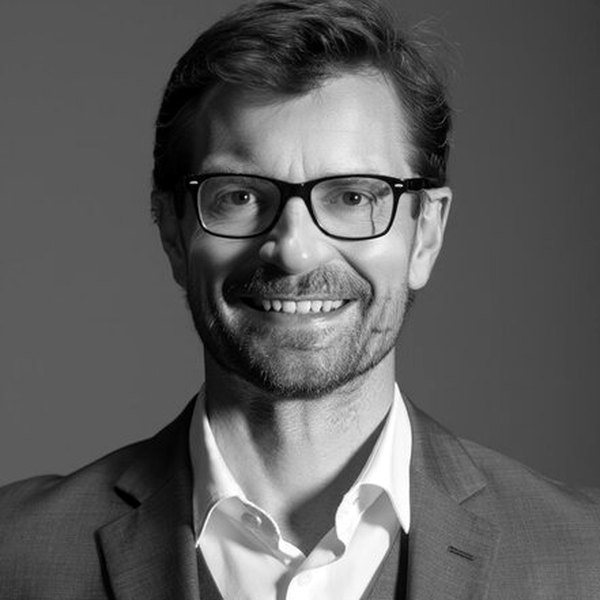
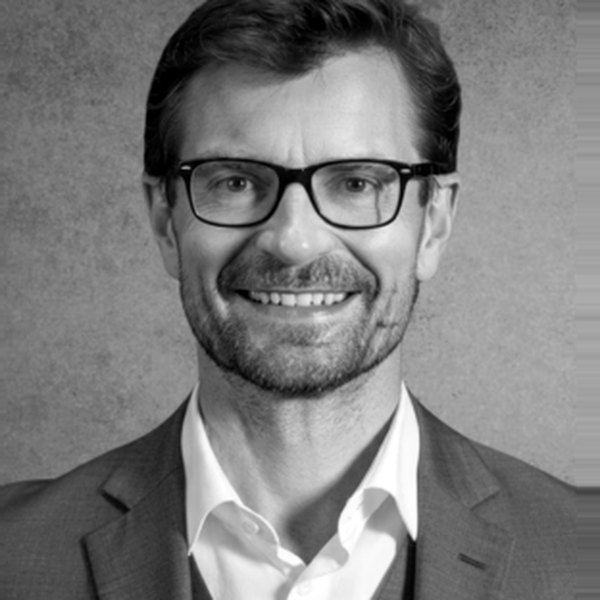
Add files via upload

diff --git a/new.html b/new.html
@@ -109,7 +109,7 @@
       </article>
 
       <article class="case case-flip">
-        <figure class="case-img"><img src="/offsite/assets/proof-4.jpg" alt="A leadership team working in front of a wall of notes" loading="lazy"></figure>
+        <figure class="case-img"><img src="/assets/case-leadership.jpg" alt="A leadership team gathered around a wall of notes" loading="lazy"></figure>
         <div class="case-body">
           <p class="case-label">02 · The leadership layer</p>
           <h3>Four offsites, eight months, one leadership team.</h3>
